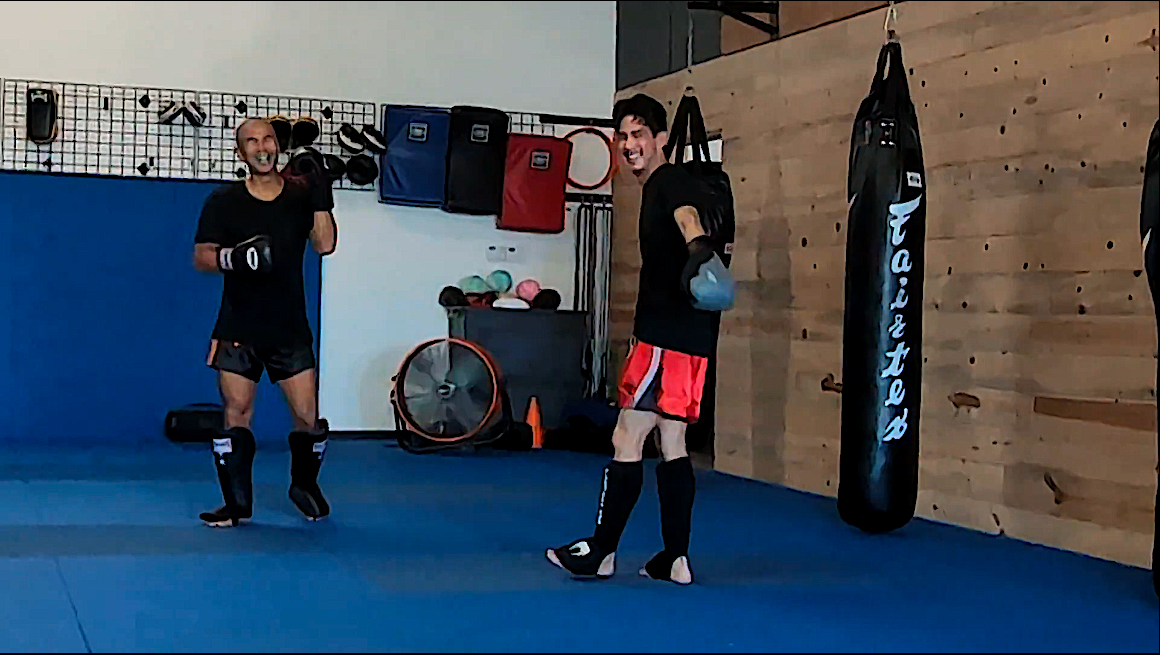
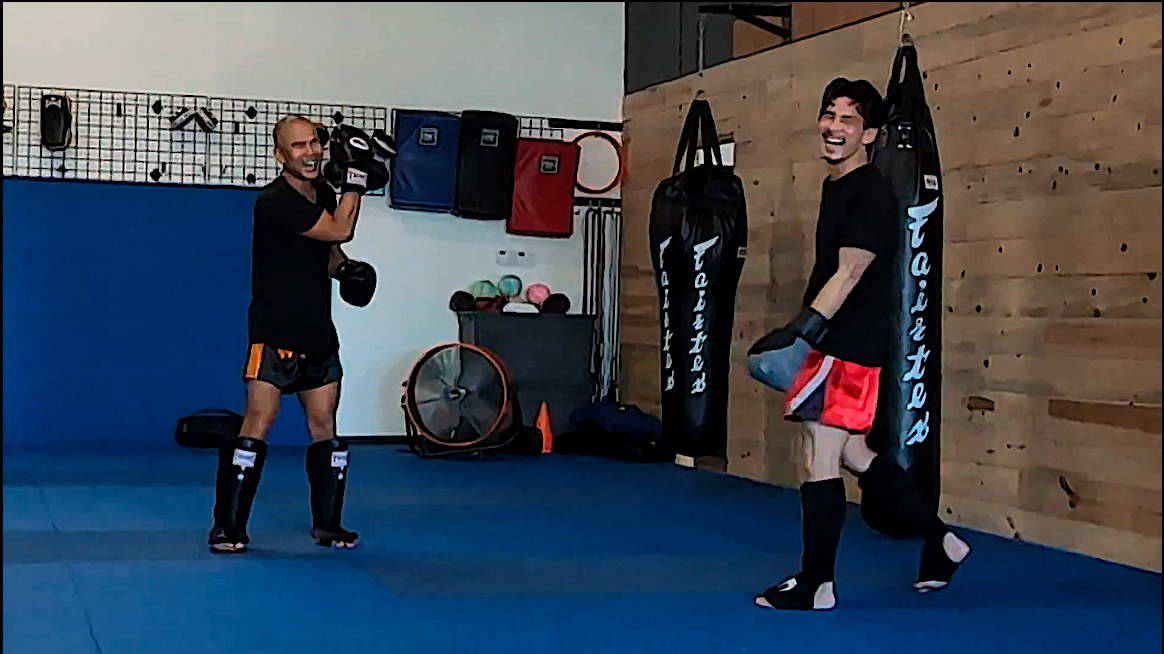
updated training text

diff --git a/templates/training.tsx b/templates/training.tsx
@@ -21,7 +21,7 @@ const featureCards = [
   {
     id: 1,
     title: 'Group Training Sessions',
-    description: `Join a welcoming martial arts community where individuals come together to enhance their health, longevity, courage, and striking skills. We grow together and hold each other accountable, ensuring you never feel alone. Empower yourself with the confidence that comes from being part of a group dedicated to helping you prepare for whatever life throws your way.`,
+    description: `Join a welcoming martial arts community where individuals come together to enhance their health, longevity, striking skills and courage. We train together and grow together. Empower yourself with the confidence that comes from being part of a group of like-minded individuals dedicated to grow stronger.`,
     duration: '1 Hour',
     levels: '',
     recommended: '',
@@ -33,7 +33,7 @@ const featureCards = [
     id: 2,
     title: 'Hands on Coaching',
     description:
-      'Get hands-on training with our coaches who guide you through every session. Our coaches provide personalized feedback to help you improve your technique and reach your goals. ',
+      'Get hands-on training with as we guide you through every session. We provide personalized feedback to help you improve your technique and reach your goals. ',
     duration: '',
     levels: '',
     recommended: '',
@@ -45,11 +45,11 @@ const featureCards = [
   {
     id: 3,
     title: 'No Intimidation Zone',
-    description: `It's natural to feel nervous and intimidated when trying something new, especially when it comes to martial arts. Our experienced members and coaches have experienced this fear ourselves and we want you to know that we have fostered a safe and welcoming environment for you to learn and grow. `,
+    description: `Fight gyms can be intimidating.  It's almost as if you are walking in and signing up for your own beat down. We understand this feel all too well so I'd like to say that nobody is here to beat you up.  It's natural to feel nervous and intimidated when trying something new, especially when it comes to martial arts. Our experienced staff have experienced this fear ourselves and we want you to know that we have fostered a safe and welcoming environment for you to learn and grow. There is never any pressure to spar, compete or anything else you are not comfortable with. `,
     duration: '1 Hour',
     levels: '',
     recommended: '',
-    image: '/nerds-friendly2.png',
+    image: '/nerds-friendly.png',
     icon: <GiTeacher className='size-6 ' />,
     href: 'https://calendly.com/nerdsfighting/free-trial-kickboxing-class'
   },
